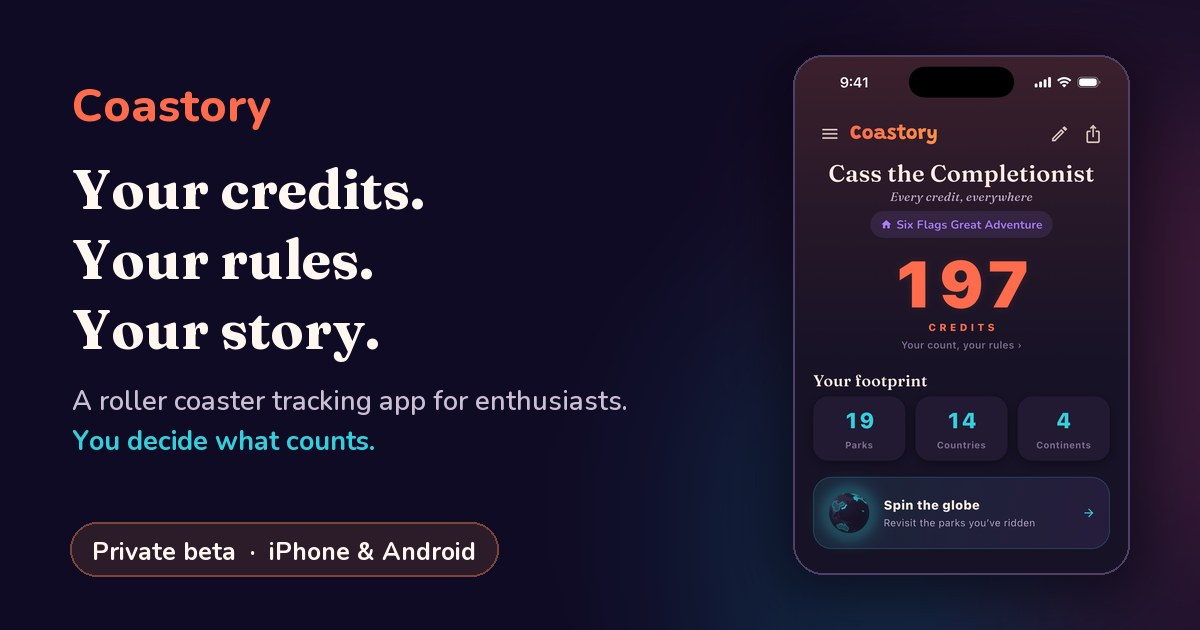
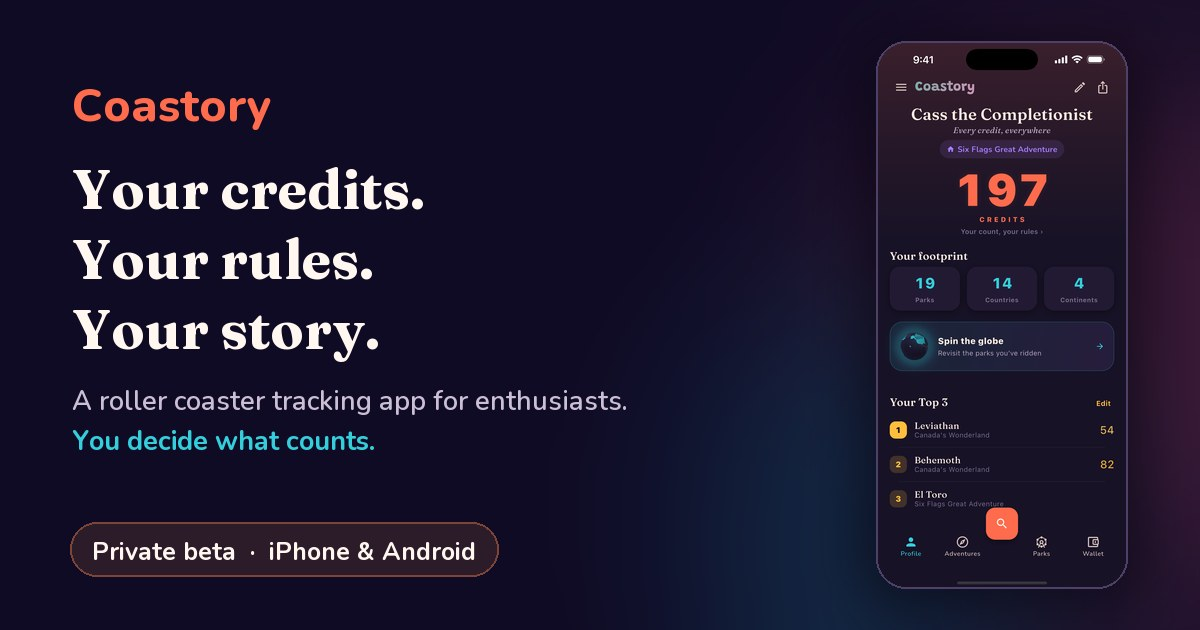
site: the hero shows the whole profile, Top 3 included
Her suggestion, and it worked: a Pro Max is 956pt against the Pro's 874, and
the Top 3 was 61pt short of clearing the nav bar. 82pt of extra height covers
it with room over.

She framed this one herself, and the position is better than either of mine.
Scrolled just far enough that El Toro's park line clears the floating button,
and not so far that the header climbs into the status bar. El Toro's row sits
right against the nav, which reads as "there is more below" rather than as a
crop. Hero is now the full story in one frame: 197 credits, 19 parks across 14
countries, the globe, and all three favourites.

Two app bugs surfaced getting here, both filed, neither fixed in this repo:

- CSTRY-568: the Profile header scrolls into the status bar. The wordmark
  lands on the clock and the edit/share icons land on the wifi and battery,
  and it does not settle. It is why this shot needed a precise scroll offset
  instead of any scrolled position.
- CSTRY-564: dead space under "The ride" on the coaster page.

A third is not filed yet, deliberately. Tapping the scrim above the "Name a
favorite" sheet while the keyboard is up takes the app to a red screen. The
log names the root cause before the cascade: setState()/markNeedsBuild()
called during build on an UncontrolledProviderScope, inside an overlay entry,
followed by a negative layout constraint and the element tree detaching.
Debug assertions, so release would not show the red screen, but the provider
[…]

Changed region(s): [[0.6475, 0.0603, 0.9558, 0.9349], [0.6475, 0.6635, 0.6783, 0.7238]]

diff --git a/index.html b/index.html
@@ -55,8 +55,8 @@
         <p class="fineprint">Free. No ads. No account required.</p>
       </div>
       <div class="phone-hold">
-        <img class="phone" src="/img/profile.webp" width="660" height="1018" fetchpriority="high" decoding="async"
-             alt="A Coastory profile in the app: 197 credits, and a footprint of 19 parks across 14 countries and 4 continents.">
+        <img class="phone" src="/img/profile.webp" width="660" height="1434" fetchpriority="high" decoding="async"
+             alt="A Coastory profile in the app: 197 credits, a footprint of 19 parks across 14 countries and 4 continents, and a Top 3 of Leviathan, Behemoth and El Toro.">
       </div>
     </div>
   </section>
